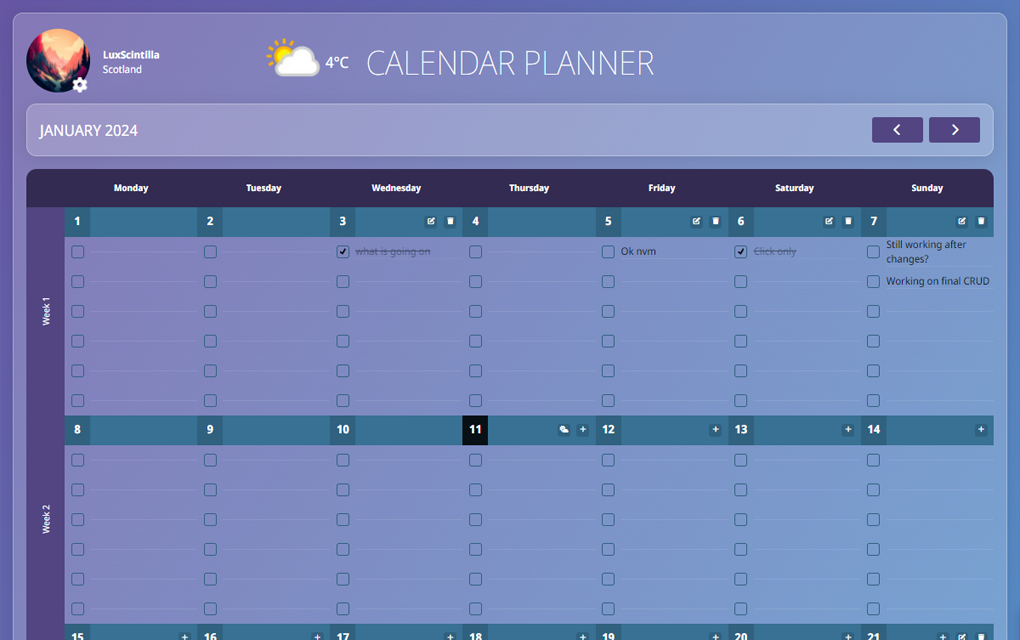
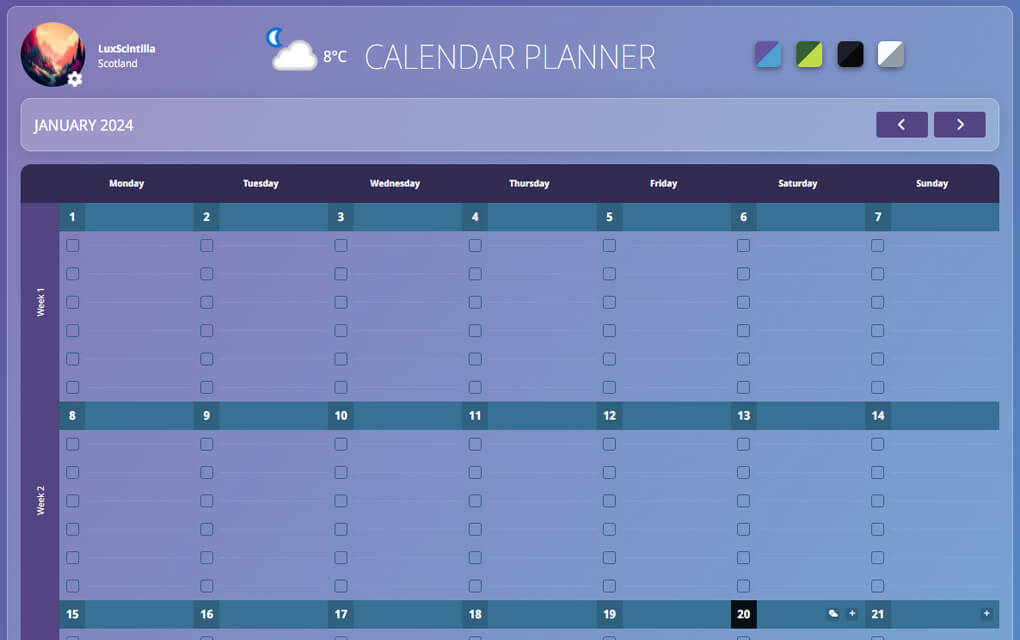
add update on projects

diff --git a/index.html b/index.html
@@ -208,7 +208,7 @@
             a
             bigger personal project.
             This project combines creating a calendar from scratch, building on the to do list by being able to attach
-            tasks spread throughout the calendar, and
+            tasks spread throughout the calendar, using sass maps and mixins to create a theme switcher, and
             finally also utilizing a weather API that shows you the current weather information.
           </p>
           <ion-icon class="skill-icon" name="logo-html5"></ion-icon>
